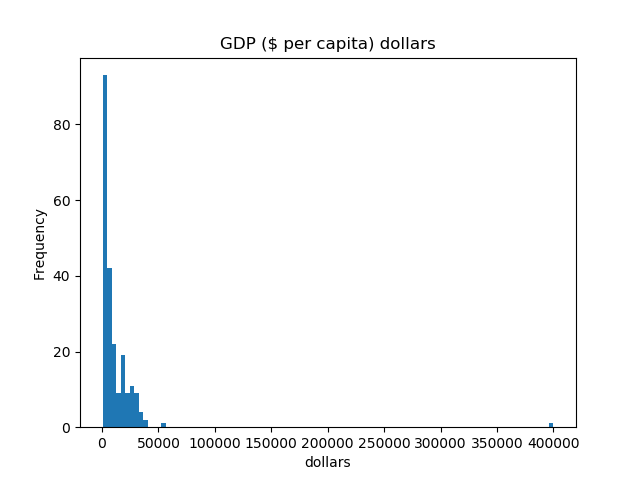
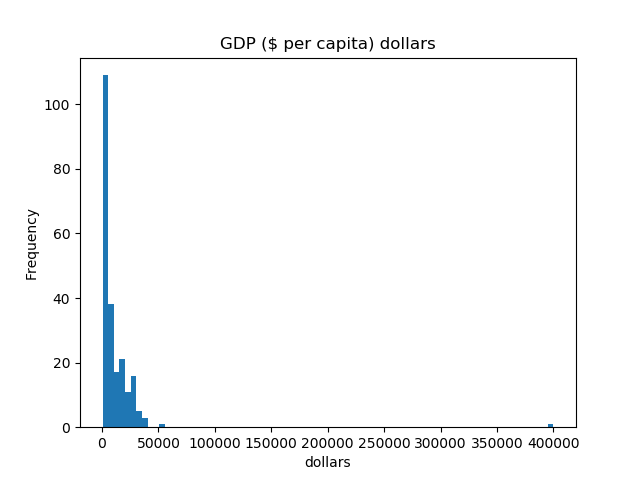
week 2 af

diff --git a/Homework/Week_2/eda.py b/Homework/Week_2/eda.py
@@ -18,6 +18,8 @@ keys = [
 
 data = []
 
+# Read INPUT_CSV, clean up the data, replace missing or unknown values
+# with np.nan.
 with open(INPUT_CSV, "r", newline="\n") as infile:
     reader = csv.DictReader(infile)
     for row in reader:
@@ -30,32 +32,19 @@ with open(INPUT_CSV, "r", newline="\n") as infile:
             row[key] = value
         data.append(row)
 
-
-
-# output filtered csv
+# Output cleaner csv.
 with open(OUTPUT_CSV, "w", newline="") as outfile:
     writer = csv.DictWriter(outfile, fieldnames=keys, extrasaction="ignore")
     writer.writeheader()
     for row in data:
         writer.writerow(row)
 
-
-all_keys = list(data[0].keys())
-ignored_keys = [x for x in all_keys if x not in keys]
-
-for row in data:
-    for key in ignored_keys:
-        del row[key]
-
-
+# Make list of countries to use as main index for the dataframe.
 index = [row["Country"] for row in data]
-
 dataframe = pd.DataFrame(data, index=index)
 dataframe = dataframe.drop(columns="Country")
 
-pd.set_option("display.max_columns", None)
-#dataframe.dropna(how="any",inplace=True)
-
+# Turn data into actual numbers.
 for key in [
     "Pop. Density (per sq. mi.)", "Infant mortality (per 1000 births)",
     "GDP ($ per capita) dollars"
@@ -74,14 +63,14 @@ print(f"median: {median}")
 print(f"mode: {mode[0]}")
 print(f"standard deviation: {std}")
 
+# Save and show histogram.
+nr_of_bins = 80
 fig, ax = plt.subplots()
-dataframe["GDP ($ per capita) dollars"].plot.hist(bins=100,
+dataframe["GDP ($ per capita) dollars"].plot.hist(bins=nr_of_bins,
     title="GDP ($ per capita) dollars")
 ax.set_xlabel("dollars")
 plt.savefig("GDP.png")
 plt.show()
-
-
 
 minimum = dataframe["Infant mortality (per 1000 births)"].min()
 q1 = dataframe["Infant mortality (per 1000 births)"].quantile(0.25)
@@ -102,8 +91,12 @@ dataframe["Infant mortality (per 1000 births)"].plot.box()
 plt.savefig("Infant_mortality.png")
 plt.show()
 
+# Drop all unnecessary columns.
+for column in dataframe:
+    if column not in keys:
+        dataframe.drop(column, axis=1, inplace=True)
 
 json_data = dataframe.to_json(orient="index")
-json_data = json.dumps(json_data, indent=4, separators=(',', ': '))
+
 with open(OUTPUT_JSON, "w") as outfile:
     outfile.write(json_data)

diff --git a/Homework/Week_1/visualizer.py b/Homework/Week_1/visualizer.py
@@ -34,9 +34,9 @@ if __name__ == "__main__":
     ax.plot(x,y,color='gold', linestyle='-', marker='o')
     ax.set(xlabel="year", ylabel="average rating",
      title="average rating of IMDB top 50 movies by year")
-    ax.set_xlim(2007.5,2017.5)
+    ax.set_xlim(2007.5, 2017.5)
     plt.xticks(range(2008, 2018, 1))
-    ax.set_ylim(np.min(y)-0.5, np.max(y)+0.5)
+    ax.set_ylim(np.min(y) - 0.5, np.max(y) + 0.5)
     plt.yticks()
     plt.grid(True, 'major', 'y', ls='-', lw=.5, c='k', alpha=.3)
     plt.show()
